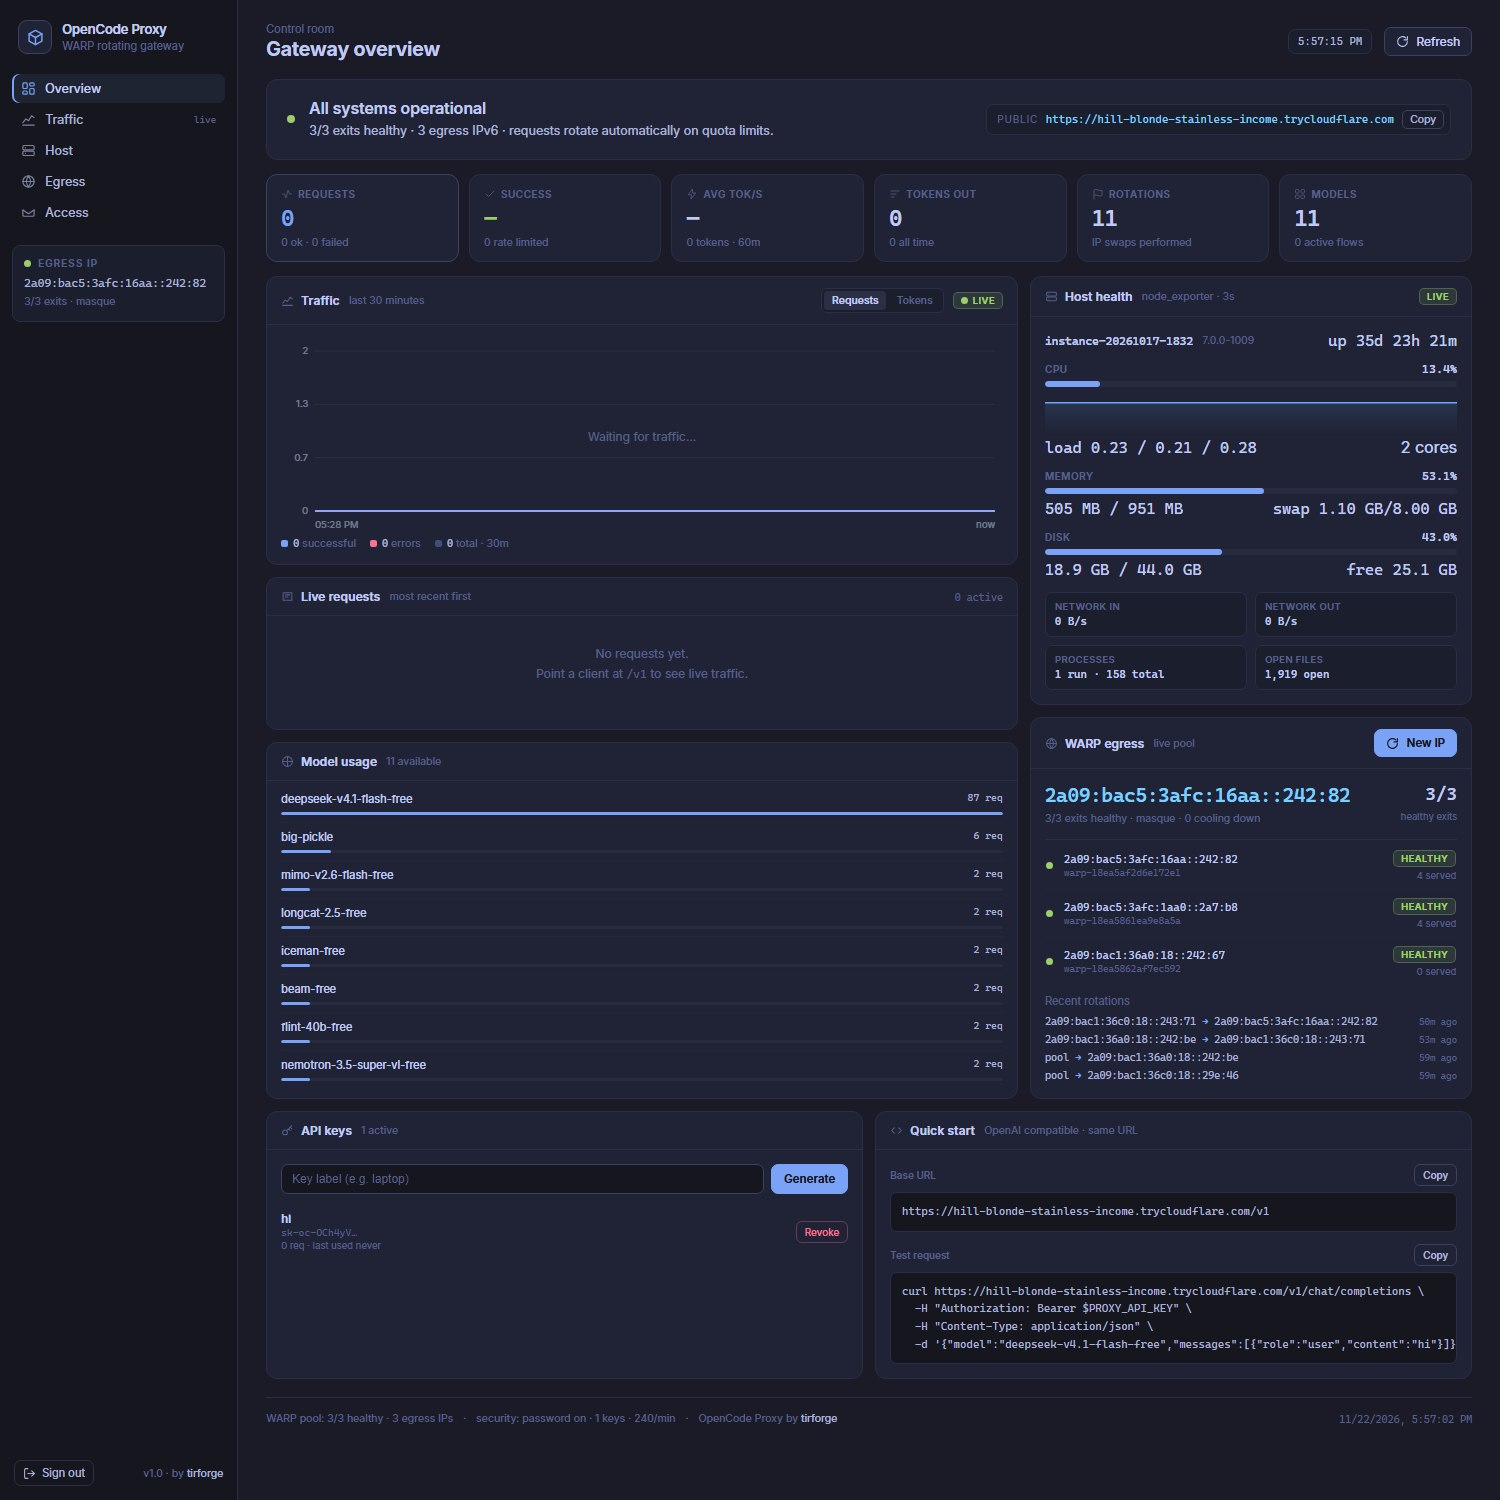
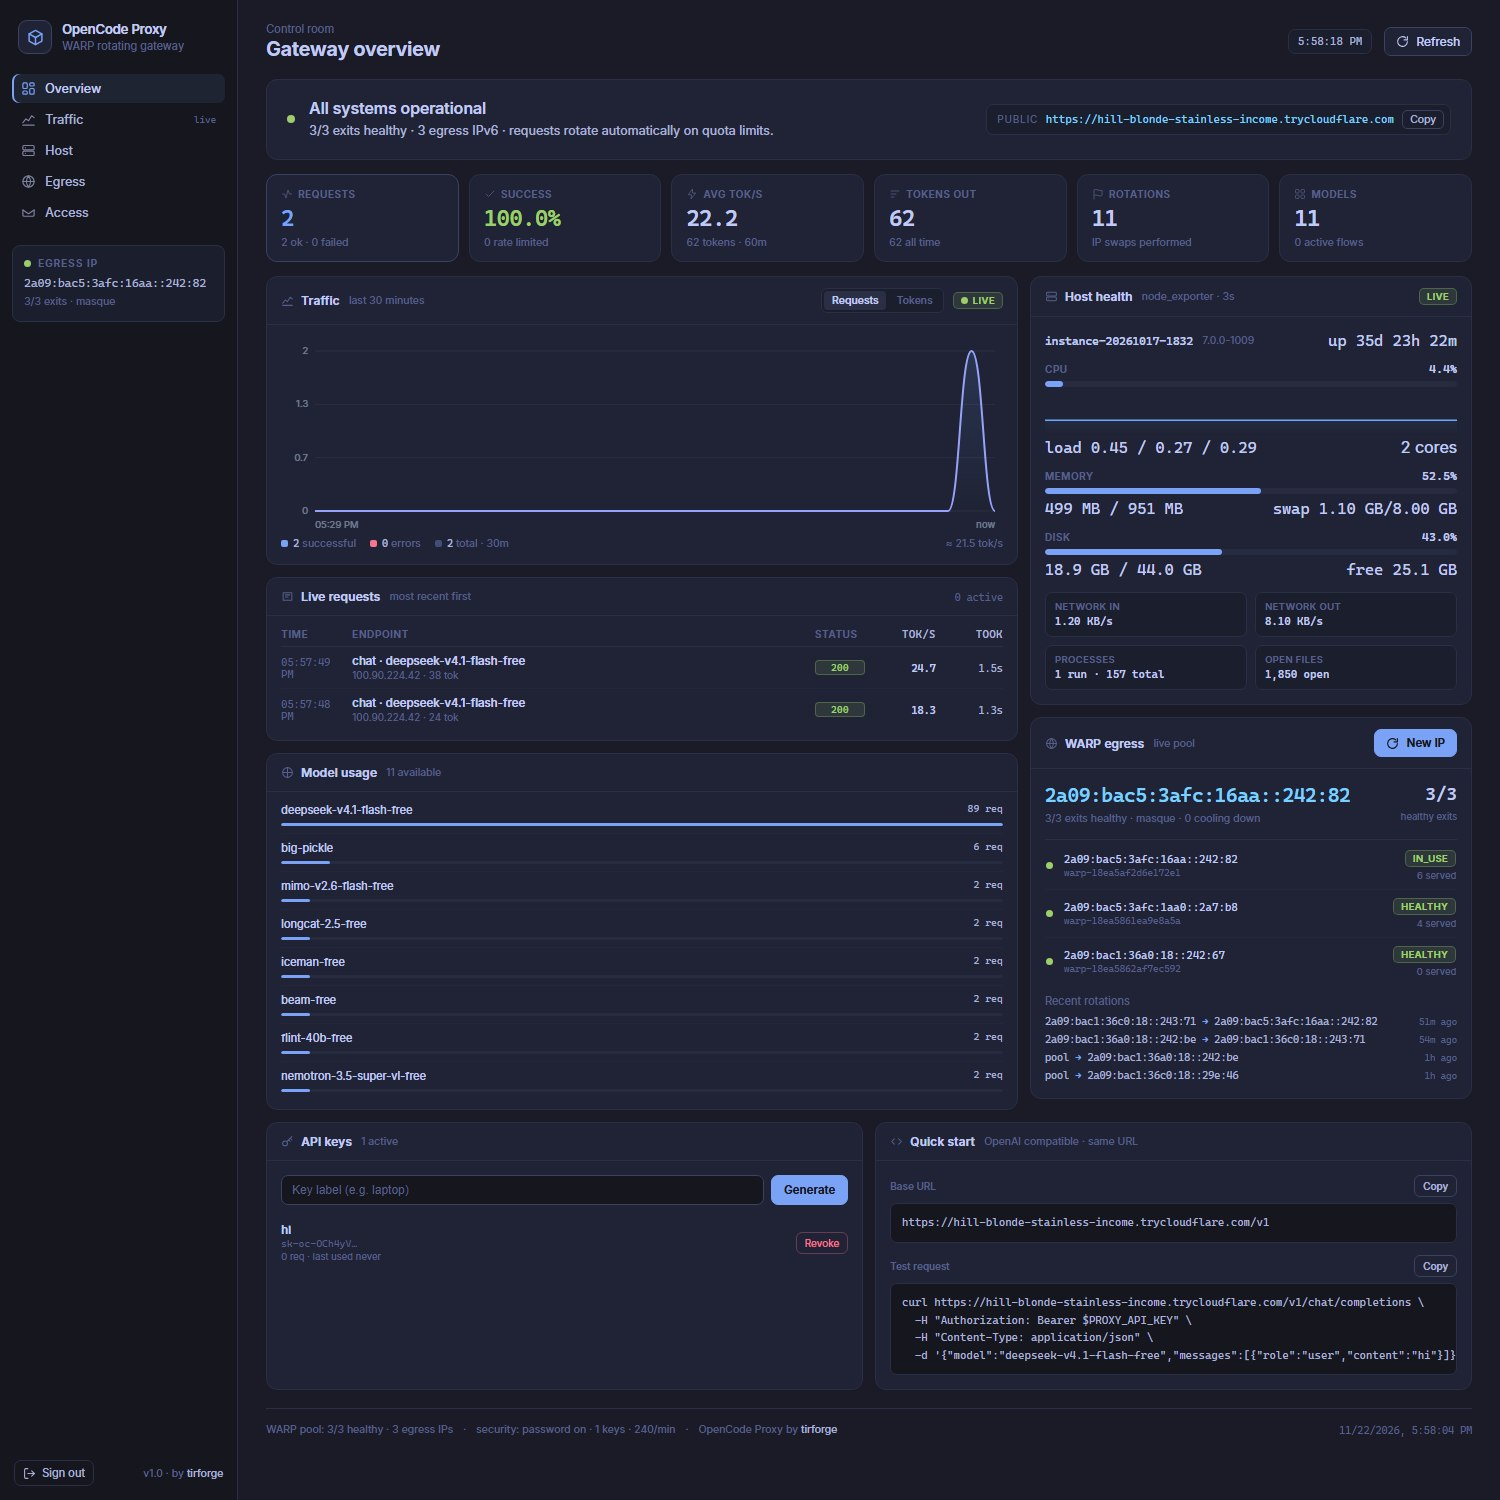
Use whole-number ticks for the requests chart

diff --git a/templates/dashboard.html b/templates/dashboard.html
@@ -1056,29 +1056,40 @@
     const innerW = Math.max(1, w - pad.l - pad.r);
     const innerH = Math.max(1, h - pad.t - pad.b);
     const values = series.map((p) => (mode === "tokens" ? p.tokens || 0 : p.total || 0));
-    const max = niceMax(Math.max(mode === "tokens" ? 20 : 2, ...values));
+    // Request counts are integers, so derive whole-number ticks; tokens can use
+    // a rounded 1/2/5 scale.
+    let max, ticks;
+    if (mode === "requests") {
+      const top = Math.max(2, ...values);
+      const stepT = Math.max(1, Math.ceil(top / 4));
+      max = Math.ceil(top / stepT) * stepT;
+      ticks = [];
+      for (let v = 0; v <= max; v += stepT) ticks.push(v);
+    } else {
+      max = niceMax(Math.max(20, ...values));
+      ticks = [0, max / 3, (2 * max) / 3, max];
+    }
 
     // grid + axis labels
     ctx.font = "9.5px " + getComputedStyle(document.body).fontFamily;
     ctx.textBaseline = "middle";
-    for (let i = 0; i <= 3; i++) {
-      const y = pad.t + (innerH / 3) * i;
+    ticks.slice().reverse().forEach((tick) => {
+      const y = pad.t + innerH * (1 - tick / max);
       ctx.strokeStyle = "rgba(255,255,255,.055)";
       ctx.lineWidth = 1;
       ctx.beginPath(); ctx.moveTo(pad.l, y); ctx.lineTo(w - pad.r, y); ctx.stroke();
-      const label = max * (1 - i / 3);
-      ctx.fillStyle = "rgba(147,161,186,.7)";
+      ctx.fillStyle = "rgba(169,177,214,.65)";
       ctx.textAlign = "right";
       ctx.fillText(
-        max < 8
-          ? String(Math.round(label * 10) / 10)
-          : Math.round(label) >= 1000
-            ? (Math.round(label) / 1000).toFixed(1) + "k"
-            : String(Math.round(label)),
+        mode === "requests"
+          ? String(Math.round(tick))
+          : tick >= 1000
+            ? (tick / 1000).toFixed(1) + "k"
+            : String(Math.round(tick * 10) / 10),
         pad.l - 7,
         y
       );
-    }
+    });
 
     const step = innerW / Math.max(1, series.length - 1);
     const x = (i) => pad.l + i * step;
